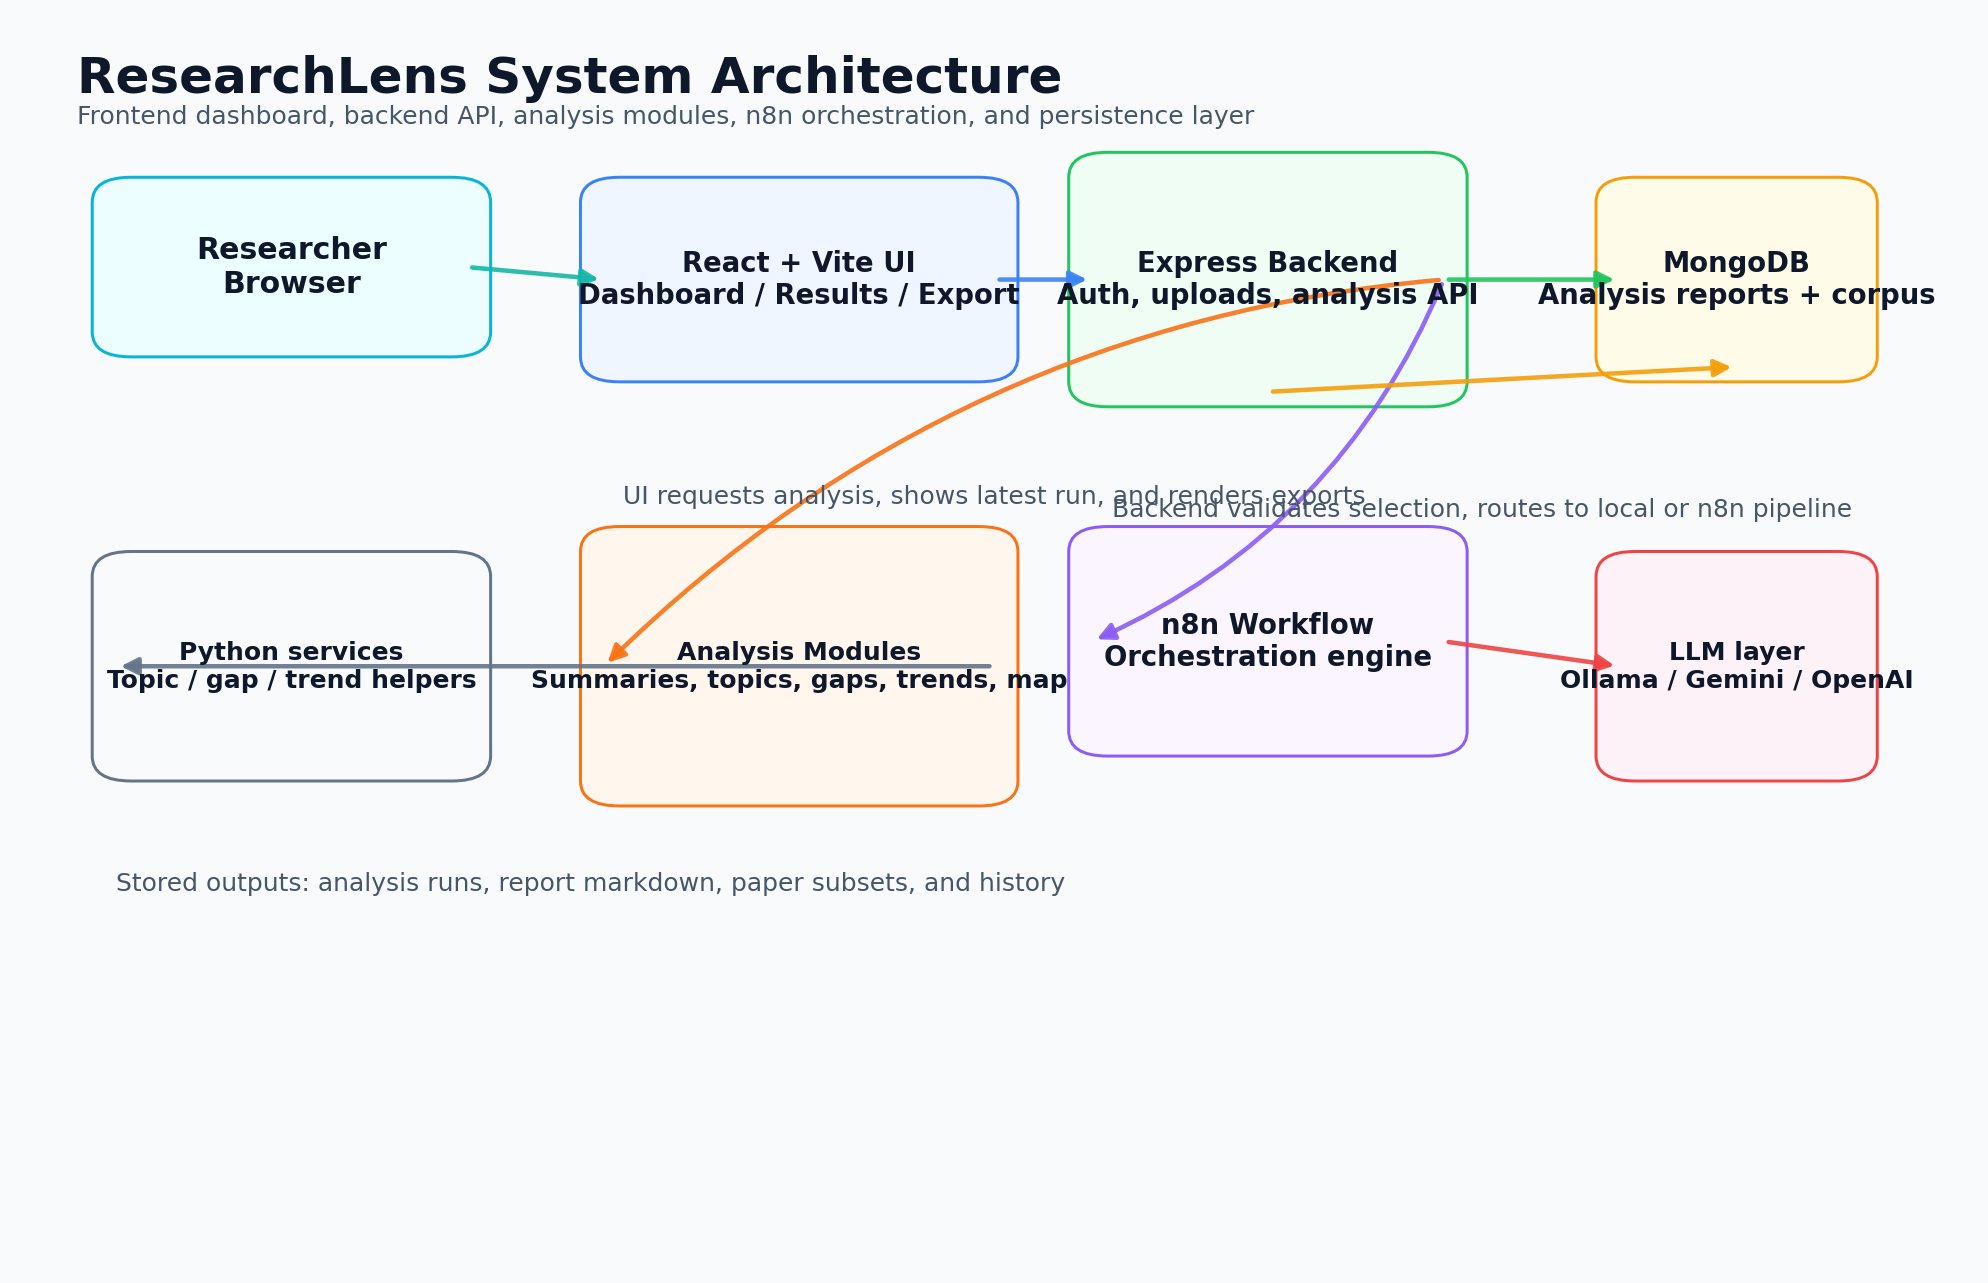
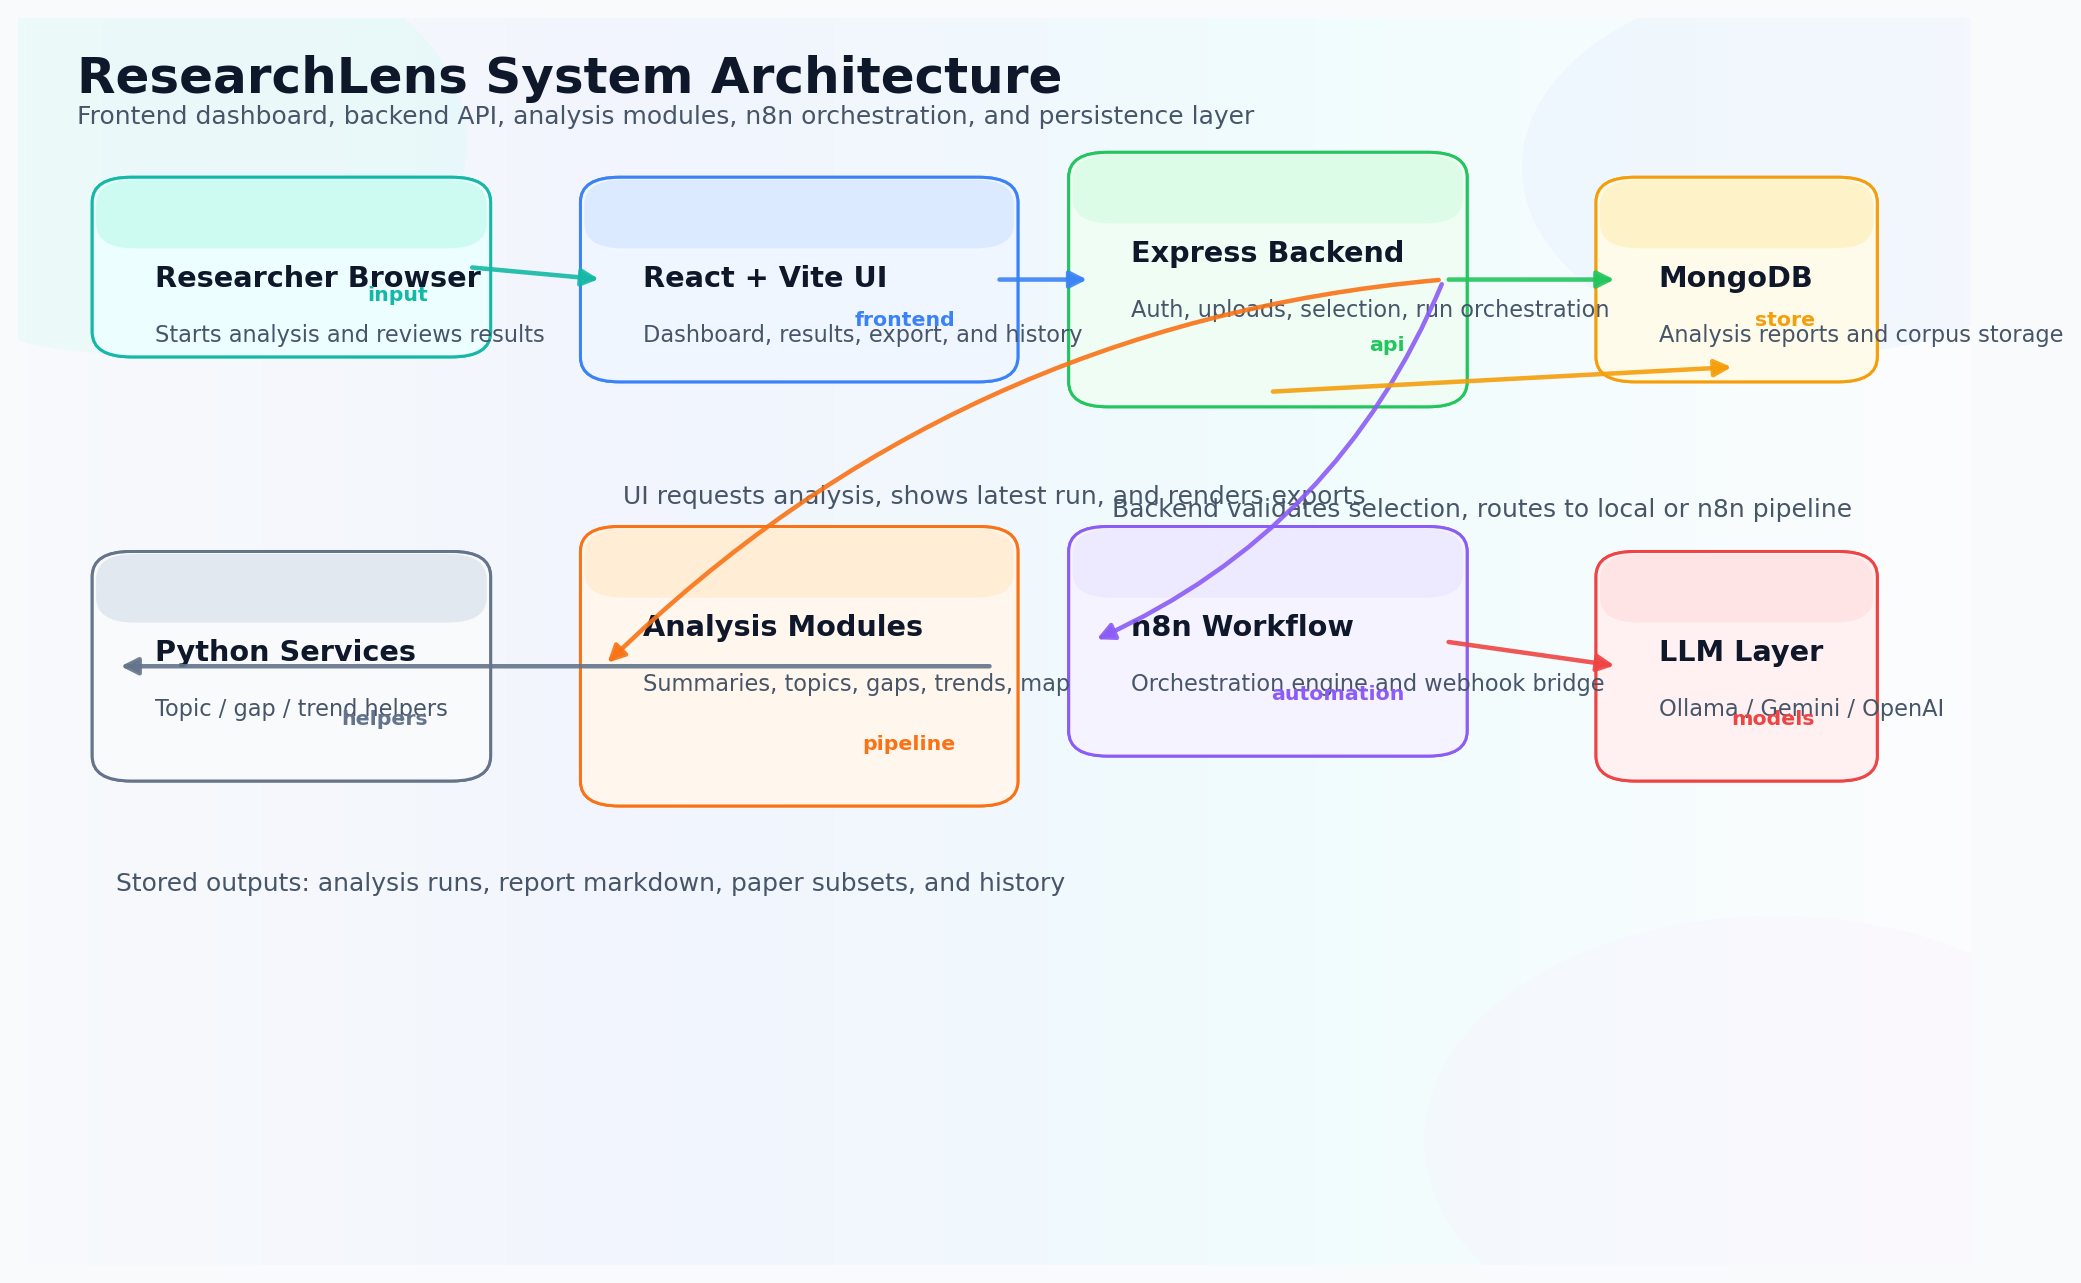
Update researchlens diagrams

diff --git a/generate_researchlens_diagrams.py b/generate_researchlens_diagrams.py
@@ -27,10 +27,14 @@ from pathlib import Path
 from typing import Iterable, Sequence
 
 import matplotlib.pyplot as plt
+import numpy as np
+from matplotlib import patheffects as pe
+from matplotlib.colors import LinearSegmentedColormap
 from matplotlib.patches import FancyArrowPatch, FancyBboxPatch, Circle
 
 
 OUTPUT_DIR = Path(__file__).resolve().parent / "generated_diagrams"
+REPORT_PATH = OUTPUT_DIR / "researchlens_diagram_report.png"
 
 BG = "#f8fafc"
 CARD = "#ffffff"
@@ -47,6 +51,17 @@ CYAN = "#06b6d4"
 SLATE = "#64748b"
 BORDER = "#dbeafe"
 
+GRADIENTS = {
+    "teal": ("#ecfeff", "#ccfbf1", TEAL),
+    "blue": ("#eff6ff", "#dbeafe", BLUE),
+    "purple": ("#f5f3ff", "#ede9fe", PURPLE),
+    "amber": ("#fffbeb", "#fef3c7", AMBER),
+    "rose": ("#fff1f2", "#ffe4e6", ROSE),
+    "green": ("#f0fdf4", "#dcfce7", GREEN),
+    "orange": ("#fff7ed", "#ffedd5", ORANGE),
+    "slate": ("#f8fafc", "#e2e8f0", SLATE),
+}
+
 
 def make_canvas(title: str, subtitle: str | None = None):
     fig, ax = plt.subplots(figsize=(14, 9), dpi=180)
@@ -55,25 +70,46 @@ def make_canvas(title: str, subtitle: str | None = None):
     ax.set_xlim(0, 1)
     ax.set_ylim(0, 1)
     ax.axis("off")
+    add_background(ax)
     ax.text(0.03, 0.97, title, fontsize=20, fontweight="bold", color=TEXT, va="top")
     if subtitle:
         ax.text(0.03, 0.93, subtitle, fontsize=10, color=MUTED, va="top")
     return fig, ax
 
 
+def add_background(ax):
+    gradient = np.linspace(0, 1, 512)
+    gradient = np.vstack([gradient, gradient])
+    cmap = LinearSegmentedColormap.from_list("rl_bg", ["#f8fafc", "#eef2ff", "#ecfeff", "#ffffff"])
+    ax.imshow(gradient, extent=[0, 1, 0, 1], origin="lower", aspect="auto", cmap=cmap, alpha=0.6, zorder=0)
+
+    for (x, y), size, color, alpha in [
+        ((0.06, 0.90), 0.17, "#ccfbf1", 0.26),
+        ((0.92, 0.88), 0.15, "#dbeafe", 0.24),
+        ((0.90, 0.10), 0.18, "#fae8ff", 0.18),
+    ]:
+        ax.add_patch(Circle((x, y), size, facecolor=color, edgecolor="none", alpha=alpha, zorder=0.1))
+
+
 def add_box(ax, x: float, y: float, w: float, h: float, text: str, *, fc=CARD, ec=BORDER, color=TEXT,
-            fontsize: int = 10, weight: str = "normal", radius: float = 0.02, align: str = "center"):
+            fontsize: int = 10, weight: str = "normal", radius: float = 0.02, align: str = "center", shadow: bool = True):
     patch = FancyBboxPatch(
         (x, y), w, h,
         boxstyle=f"round,pad=0.012,rounding_size={radius}",
         linewidth=1.2,
         facecolor=fc,
         edgecolor=ec,
+        zorder=2,
     )
+    if shadow:
+        patch.set_path_effects([
+            pe.withSimplePatchShadow(offset=(0.02, -0.02), alpha=0.12, shadow_rgbFace="#94a3b8"),
+            pe.Normal(),
+        ])
     ax.add_patch(patch)
     ha = "center" if align == "center" else "left"
     tx = x + w / 2 if align == "center" else x + 0.02
-    ax.text(tx, y + h / 2, text, ha=ha, va="center", fontsize=fontsize, color=color, fontweight=weight, wrap=True)
+    ax.text(tx, y + h / 2, text, ha=ha, va="center", fontsize=fontsize, color=color, fontweight=weight, wrap=True, zorder=3)
     return patch
 
 
@@ -87,6 +123,7 @@ def add_arrow(ax, p1: tuple[float, float], p2: tuple[float, float], *, color=SLA
         color=color,
         connectionstyle=f"arc3,rad={rad}",
         alpha=alpha,
+        zorder=4,
     )
     ax.add_patch(arrow)
     return arrow
@@ -111,6 +148,18 @@ def labeled_step(ax, x: float, y: float, w: float, h: float, title: str, desc: s
     ax.text(x + 0.02, y + h - 0.08, desc, ha="left", va="top", fontsize=9, color=MUTED, wrap=True)
 
 
+def gradient_card(ax, x: float, y: float, w: float, h: float, title: str, desc: str, accent: str, palette: tuple[str, str, str]):
+    top, mid, edge = palette
+    add_box(ax, x, y, w, h, "", fc=top, ec=edge, shadow=True)
+    ax.add_patch(FancyBboxPatch((x, y + h - 0.035), w, 0.035, boxstyle="round,pad=0.01,rounding_size=0.02",
+                                linewidth=0, facecolor=mid, alpha=0.96, zorder=2.1))
+    ax.text(x + 0.02, y + h - 0.058, title, ha="left", va="top", fontsize=11.5, fontweight="bold", color=TEXT, zorder=3)
+    if desc:
+        ax.text(x + 0.02, y + h - 0.105, desc, ha="left", va="top", fontsize=9, color=MUTED, wrap=True, zorder=3)
+    if accent:
+        ax.text(x + w - 0.02, y + 0.03, accent, ha="right", va="bottom", fontsize=8.2, color=edge, fontweight="bold", zorder=3)
+
+
 def generate_system_architecture():
     fig, ax = make_canvas(
         "ResearchLens System Architecture",
@@ -126,14 +175,14 @@ def generate_system_architecture():
     python = (0.05, 0.40, 0.18, 0.16)
     llm = (0.82, 0.40, 0.12, 0.16)
 
-    add_box(ax, *user, "Researcher\nBrowser", fc="#ecfeff", ec=CYAN, fontsize=12, weight="bold")
-    add_box(ax, *web, "React + Vite UI\nDashboard / Results / Export", fc="#eff6ff", ec=BLUE, fontsize=11, weight="bold")
-    add_box(ax, *api, "Express Backend\nAuth, uploads, analysis API", fc="#f0fdf4", ec=GREEN, fontsize=11, weight="bold")
-    add_box(ax, *db, "MongoDB\nAnalysis reports + corpus", fc="#fefce8", ec=AMBER, fontsize=11, weight="bold")
-    add_box(ax, *n8n, "n8n Workflow\nOrchestration engine", fc="#faf5ff", ec=PURPLE, fontsize=11, weight="bold")
-    add_box(ax, *modules, "Analysis Modules\nSummaries, topics, gaps, trends, map", fc="#fff7ed", ec=ORANGE, fontsize=10, weight="bold")
-    add_box(ax, *python, "Python services\nTopic / gap / trend helpers", fc="#f8fafc", ec=SLATE, fontsize=10, weight="bold")
-    add_box(ax, *llm, "LLM layer\nOllama / Gemini / OpenAI", fc="#fdf2f8", ec=ROSE, fontsize=10, weight="bold")
+    gradient_card(ax, *user, "Researcher Browser", "Starts analysis and reviews results", "input", GRADIENTS["teal"])
+    gradient_card(ax, *web, "React + Vite UI", "Dashboard, results, export, and history", "frontend", GRADIENTS["blue"])
+    gradient_card(ax, *api, "Express Backend", "Auth, uploads, selection, run orchestration", "api", GRADIENTS["green"])
+    gradient_card(ax, *db, "MongoDB", "Analysis reports and corpus storage", "store", GRADIENTS["amber"])
+    gradient_card(ax, *n8n, "n8n Workflow", "Orchestration engine and webhook bridge", "automation", GRADIENTS["purple"])
+    gradient_card(ax, *modules, "Analysis Modules", "Summaries, topics, gaps, trends, map", "pipeline", GRADIENTS["orange"])
+    gradient_card(ax, *python, "Python Services", "Topic / gap / trend helpers", "helpers", GRADIENTS["slate"])
+    gradient_card(ax, *llm, "LLM Layer", "Ollama / Gemini / OpenAI", "models", GRADIENTS["rose"])
 
     connect_boxes(ax, user, web, color=TEAL)
     connect_boxes(ax, web, api, color=BLUE)
@@ -169,7 +218,8 @@ def generate_data_flow():
     boxes = {}
     for title, desc, x, y, color in steps:
         boxes[title] = (x, y, 0.16, 0.12)
-        add_box(ax, x, y, 0.16, 0.12, f"{title}\n{desc}", fc="#ffffff", ec=color, fontsize=10, weight="bold")
+        palette = GRADIENTS["teal"] if color == TEAL else GRADIENTS["blue"] if color == BLUE else GRADIENTS["purple"] if color == PURPLE else GRADIENTS["orange"] if color == ORANGE else GRADIENTS["green"] if color == GREEN else GRADIENTS["amber"]
+        gradient_card(ax, x, y, 0.16, 0.12, title, desc, title.lower(), palette)
 
     for left, right in [(steps[i][0], steps[i + 1][0]) for i in range(4)]:
         connect_boxes(ax, boxes[left], boxes[right], color=SLATE)
@@ -179,6 +229,8 @@ def generate_data_flow():
 
     ax.text(0.07, 0.54, "Important rule: dataset count ≠ processed run count", fontsize=12, fontweight="bold", color=TEXT)
     ax.text(0.07, 0.49, "All downstream views should read from the latest run object, not from the raw corpus.", fontsize=10, color=MUTED)
+    gradient_card(ax, 0.39, 0.15, 0.22, 0.12, "Latest run", "This is what Overview and Results should render", "truth source", GRADIENTS["amber"])
+    add_arrow(ax, (0.50, 0.27), (0.50, 0.24), color=AMBER)
 
     save(fig, "data_flow")
 
@@ -202,19 +254,19 @@ def generate_workflow_orchestration():
         ("10", "Scientific Honesty", "#1d4ed8"),
     ]
 
-    x0, y, w, h, gap = 0.04, 0.62, 0.085, 0.14, 0.012
+    x0, y, w, h, gap = 0.03, 0.64, 0.084, 0.12, 0.008
     boxes = []
     for idx, (num, label, color) in enumerate(names):
         x = x0 + idx * (w + gap)
-        add_box(ax, x, y, w, h, f"{num}\n{label}", fc="#ffffff", ec=color, fontsize=9, weight="bold")
+        add_box(ax, x, y, w, h, f"{num}\n{label}", fc="#ffffff", ec=color, fontsize=8.8, weight="bold")
         boxes.append((x, y, w, h))
         if idx < len(names) - 1:
             add_arrow(ax, (x + w, y + h / 2), (x + w + gap, y + h / 2), color=SLATE)
 
     ax.text(0.05, 0.44, "Input: selected papers + question", fontsize=12, color=TEXT, fontweight="bold")
-    labeled_step(ax, 0.05, 0.18, 0.26, 0.18, "n8n master workflow", "Webhooks, retries, and result normalization", fill="#faf5ff", edge=PURPLE)
-    labeled_step(ax, 0.37, 0.18, 0.26, 0.18, "Backend formatter", "Saves report, merges evidence, updates history", fill="#f0fdf4", edge=GREEN)
-    labeled_step(ax, 0.69, 0.18, 0.26, 0.18, "Frontend views", "Overview, Results, History, Export", fill="#eff6ff", edge=BLUE)
+    gradient_card(ax, 0.05, 0.18, 0.26, 0.18, "n8n master workflow", "Webhooks, retries, and result normalization", "automation", GRADIENTS["purple"])
+    gradient_card(ax, 0.37, 0.18, 0.26, 0.18, "Backend formatter", "Saves report, merges evidence, updates history", "storage", GRADIENTS["green"])
+    gradient_card(ax, 0.69, 0.18, 0.26, 0.18, "Frontend views", "Overview, Results, History, Export", "ui", GRADIENTS["blue"])
     add_arrow(ax, (0.18, 0.44), (0.18, 0.36), color=PURPLE)
     add_arrow(ax, (0.50, 0.36), (0.50, 0.30), color=GREEN)
     add_arrow(ax, (0.82, 0.36), (0.82, 0.30), color=BLUE)
@@ -235,20 +287,20 @@ def generate_topic_modeling_workflow():
         "Cluster": (0.63, 0.72, 0.16, 0.12),
         "Label": (0.82, 0.72, 0.12, 0.12),
     }
-    add_box(ax, *boxes["Input"], "Paper text\nabstract + content", fc="#ecfeff", ec=CYAN, fontsize=10, weight="bold")
-    add_box(ax, *boxes["Preprocess"], "Clean & tokenize", fc="#eff6ff", ec=BLUE, fontsize=10, weight="bold")
-    add_box(ax, *boxes["Embed"], "Embeddings", fc="#fdf2f8", ec=ROSE, fontsize=10, weight="bold")
-    add_box(ax, *boxes["Cluster"], "BERTopic / clustering", fc="#faf5ff", ec=PURPLE, fontsize=10, weight="bold")
-    add_box(ax, *boxes["Label"], "LLM label", fc="#fefce8", ec=AMBER, fontsize=10, weight="bold")
+    gradient_card(ax, *boxes["Input"], "Paper text", "abstract + content", "input", GRADIENTS["teal"])
+    gradient_card(ax, *boxes["Preprocess"], "Clean & tokenize", "remove noise", "prep", GRADIENTS["blue"])
+    gradient_card(ax, *boxes["Embed"], "Embeddings", "semantic vectors", "encode", GRADIENTS["rose"])
+    gradient_card(ax, *boxes["Cluster"], "BERTopic / clustering", "group by theme", "cluster", GRADIENTS["purple"])
+    gradient_card(ax, *boxes["Label"], "LLM label", "human-readable topic", "label", GRADIENTS["amber"])
 
     connect_boxes(ax, boxes["Input"], boxes["Preprocess"], color=BLUE)
     connect_boxes(ax, boxes["Preprocess"], boxes["Embed"], color=ROSE)
     connect_boxes(ax, boxes["Embed"], boxes["Cluster"], color=PURPLE)
     connect_boxes(ax, boxes["Cluster"], boxes["Label"], color=AMBER)
 
-    labeled_step(ax, 0.08, 0.34, 0.24, 0.18, "Topic embeddings", "Reduce papers into semantic vectors", fill="#ffffff", edge=CYAN)
-    labeled_step(ax, 0.38, 0.34, 0.24, 0.18, "Topic clusters", "Group related papers by theme", fill="#ffffff", edge=PURPLE)
-    labeled_step(ax, 0.68, 0.34, 0.24, 0.18, "Topic cards", "Name, keywords, coherence, paper counts", fill="#ffffff", edge=GREEN)
+    gradient_card(ax, 0.08, 0.34, 0.24, 0.18, "Topic embeddings", "Reduce papers into semantic vectors", "embeddings", GRADIENTS["teal"])
+    gradient_card(ax, 0.38, 0.34, 0.24, 0.18, "Topic clusters", "Group related papers by theme", "clusters", GRADIENTS["purple"])
+    gradient_card(ax, 0.68, 0.34, 0.24, 0.18, "Topic cards", "Name, keywords, coherence, paper counts", "cards", GRADIENTS["green"])
     add_arrow(ax, (0.20, 0.34), (0.38, 0.34), color=SLATE)
     add_arrow(ax, (0.62, 0.43), (0.68, 0.43), color=SLATE)
 
@@ -270,13 +322,14 @@ def generate_keyword_extraction_workflow():
     ]
     boxes = []
     for x, y, w, h, label, color in stages:
-        add_box(ax, x, y, w, h, label, fc="#ffffff", ec=color, fontsize=10, weight="bold")
+        palette = GRADIENTS["teal"] if color == TEAL else GRADIENTS["blue"] if color == BLUE else GRADIENTS["purple"] if color == PURPLE else GRADIENTS["orange"] if color == ORANGE else GRADIENTS["green"]
+        gradient_card(ax, x, y, w, h, label, "", label.lower(), palette)
         boxes.append((x, y, w, h))
     for a, b in zip(boxes, boxes[1:]):
         connect_boxes(ax, a, b, color=SLATE)
 
-    labeled_step(ax, 0.08, 0.36, 0.36, 0.18, "Keyword ranking", "Rank high-signal words from title, abstract, and content", fill="#f8fafc", edge=BLUE)
-    labeled_step(ax, 0.54, 0.36, 0.38, 0.18, "ResearchLens output", "Keywords enrich summaries, topics, and search filters", fill="#f8fafc", edge=GREEN)
+    gradient_card(ax, 0.08, 0.36, 0.36, 0.18, "Keyword ranking", "Rank high-signal words from title, abstract, and content", "ranking", GRADIENTS["blue"])
+    gradient_card(ax, 0.54, 0.36, 0.38, 0.18, "ResearchLens output", "Keywords enrich summaries, topics, and search filters", "output", GRADIENTS["green"])
     add_arrow(ax, (0.44, 0.36), (0.54, 0.36), color=GREEN)
 
     ax.text(0.08, 0.16, "Typical scoring strategies: frequency, TF-IDF, noun phrases, and LLM-assisted refinement", fontsize=11, color=MUTED)
@@ -306,13 +359,14 @@ def generate_chatbot_workflow():
     ]
     for key, title, color in labels:
         x, y, w, h = nodes[key]
-        add_box(ax, x, y, w, h, title, fc="#ffffff", ec=color, fontsize=10, weight="bold")
+        palette = GRADIENTS["teal"] if color == TEAL else GRADIENTS["blue"] if color == BLUE else GRADIENTS["purple"] if color == PURPLE else GRADIENTS["orange"] if color == ORANGE else GRADIENTS["rose"]
+        gradient_card(ax, x, y, w, h, title, "", title.lower(), palette)
     for a, b in zip(list(nodes.values()), list(nodes.values())[1:]):
         connect_boxes(ax, a, b, color=SLATE)
 
-    labeled_step(ax, 0.08, 0.34, 0.26, 0.18, "Evidence sources", "Backend papers, module 2 topics, module 3 gaps, module 4 trends", fill="#ffffff", edge=PURPLE)
-    labeled_step(ax, 0.39, 0.34, 0.26, 0.18, "RAG context", "Relevant snippets are assembled before generation", fill="#ffffff", edge=ORANGE)
-    labeled_step(ax, 0.70, 0.34, 0.22, 0.18, "Answer", "Concise response with links to evidence", fill="#ffffff", edge=GREEN)
+    gradient_card(ax, 0.06, 0.32, 0.28, 0.20, "Evidence sources", "Backend papers, topics, gaps, trends", "ground truth", GRADIENTS["purple"])
+    gradient_card(ax, 0.37, 0.32, 0.28, 0.20, "RAG context", "Relevant snippets are assembled before generation", "retrieval", GRADIENTS["orange"])
+    gradient_card(ax, 0.68, 0.32, 0.26, 0.20, "Answer", "Concise response with links to evidence", "response", GRADIENTS["green"])
     add_arrow(ax, (0.34, 0.34), (0.39, 0.34), color=ORANGE)
     add_arrow(ax, (0.65, 0.34), (0.70, 0.34), color=GREEN)
 
@@ -331,7 +385,7 @@ def generate_topic_cluster_visualization():
         (0.80, 0.68, ORANGE, "Computer vision"),
     ]
     for cx, cy, color, label in centers:
-        circ = Circle((cx, cy), 0.11, facecolor=color, alpha=0.08, edgecolor=color, linewidth=2)
+        circ = Circle((cx, cy), 0.12, facecolor=color, alpha=0.07, edgecolor=color, linewidth=2)
         ax.add_patch(circ)
         ax.text(cx, cy + 0.14, label, ha="center", va="bottom", fontsize=11, fontweight="bold", color=TEXT)
 
@@ -368,7 +422,8 @@ def generate_keyword_extraction_analysis_graph():
         (0.82, 0.70, "self-supervised", GREEN),
     ]
     for x, y, label, color in keywords:
-        add_box(ax, x - 0.055, y - 0.028, 0.11, 0.056, label, fc="#ffffff", ec=color, fontsize=9, weight="bold")
+        palette = GRADIENTS["teal"] if color == TEAL else GRADIENTS["blue"] if color == BLUE else GRADIENTS["purple"] if color == PURPLE else GRADIENTS["orange"] if color == ORANGE else GRADIENTS["green"]
+        gradient_card(ax, x - 0.055, y - 0.028, 0.11, 0.056, label, "", label[:4], palette)
 
     graph_nodes = [
         (0.18, 0.44, "paper 1", TEAL),
@@ -377,7 +432,8 @@ def generate_keyword_extraction_analysis_graph():
         (0.78, 0.44, "paper 4", ORANGE),
     ]
     for x, y, label, color in graph_nodes:
-        add_box(ax, x - 0.05, y - 0.03, 0.10, 0.06, label, fc="#f8fafc", ec=color, fontsize=9, weight="bold")
+        palette = GRADIENTS["teal"] if color == TEAL else GRADIENTS["blue"] if color == BLUE else GRADIENTS["purple"] if color == PURPLE else GRADIENTS["orange"]
+        gradient_card(ax, x - 0.05, y - 0.03, 0.10, 0.06, label, "", label, palette)
 
     # keyword-to-paper edges
     edges = [
@@ -393,6 +449,32 @@ def generate_keyword_extraction_analysis_graph():
     ax.text(0.08, 0.18, "Keywords with stronger cross-paper links are promoted into topics and gap explanations.", fontsize=11, color=MUTED)
 
     save(fig, "keyword_extraction_analysis_graph")
+
+
+def generate_report_gallery(image_paths: Sequence[Path]):
+    cols = 2
+    rows = math.ceil(len(image_paths) / cols)
+    fig, axes = plt.subplots(rows, cols, figsize=(16, rows * 4.5), dpi=180)
+    fig.patch.set_facecolor(BG)
+    axes = np.array(axes).reshape(rows, cols)
+
+    fig.suptitle("ResearchLens Diagram Report", fontsize=22, fontweight="bold", color=TEXT, y=0.995)
+    fig.text(0.5, 0.972, "All generated diagrams in one place for quick review and report embedding", ha="center", va="top", fontsize=10, color=MUTED)
+
+    for idx, ax in enumerate(axes.flat):
+        ax.set_facecolor("#ffffff")
+        ax.axis("off")
+        if idx >= len(image_paths):
+            ax.set_visible(False)
+            continue
+        img = plt.imread(image_paths[idx])
+        ax.imshow(img)
+        ax.set_title(image_paths[idx].stem.replace("_", " ").title(), fontsize=11, color=TEXT, pad=10)
+
+    fig.tight_layout(rect=[0, 0, 1, 0.965])
+    fig.savefig(REPORT_PATH, bbox_inches="tight", facecolor=fig.get_facecolor())
+    plt.close(fig)
+    print(f"Saved {REPORT_PATH}")
 
 
 def save(fig, name: str):
@@ -412,6 +494,8 @@ def main():
     generate_chatbot_workflow()
     generate_topic_cluster_visualization()
     generate_keyword_extraction_analysis_graph()
+    image_paths = sorted([p for p in OUTPUT_DIR.glob("*.png") if p.name != REPORT_PATH.name])
+    generate_report_gallery(image_paths)
     print(f"\nDone. Images written to: {OUTPUT_DIR}")
 
 
